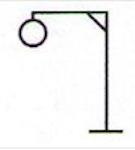
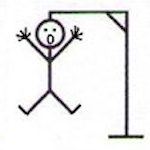
Made changes to hangman game

diff --git a/Coding_House_Prework/hangman/main.js b/Coding_House_Prework/hangman/main.js
@@ -1,16 +1,16 @@
 $(document).ready(function () {
     "use strict";
-    var availableLetters, words, guessInput, guess, guessButton, lettersGuessed, lettersMatched, output, man, letters, lives, currentWord, numLettersMatched, messages;
+    var letterChoices, presidentsArray, guessInput, guess, guessButton, lettersGuessed, lettersMatched, output, man, letters, lives, currentWord, numLettersMatched, messages;
 
     function setup() {
         /* start config options */
-        availableLetters = "abcdefghijklmnopqrstuvwxyz";
-        lives = 5;
-        words = ["lincoln", "kennedy", "washington", "roosevelt", "jefferson", "clinton", "nixon", "wilson", "johnson", "adams"];
+        letterChoices = "abcdefghijklmnopqrstuvwxyz";
+        lives = 6;
+        presidentsArray = ["lincoln", "kennedy", "washington", "roosevelt", "jefferson", "clinton", "nixon", "wilson", "johnson", "adams"];
         messages = {
             win: 'You win!',
             lose: 'Game over!',
-            guessed: ' already guessed, please try again...',
+            already_guessed: ' already guessed, please try again...',
             validLetter: 'Please enter a letter from A-Z'
         };
 
@@ -31,7 +31,7 @@ $(document).ready(function () {
         numLettersMatched = 0;
 
         /* choose a word */
-        currentWord = words[Math.floor(Math.random() * words.length)];
+        currentWord = presidentsArray[Math.floor(Math.random() * presidentsArray.length)];
 
         /* make #man and #output blank, create vars for later access */
         output = document.getElementById("output");
@@ -51,31 +51,117 @@ $(document).ready(function () {
 
         /* make sure guess button is enabled */
         guessButton = document.getElementById("guess");
-        guessInput.style.display = 'inline';
-        guessButton.style.display = 'inline';
+        // guessInput.style.display = 'inline';
+        // guessButton.style.display = 'inline';
 
         /* set up display of letters in current word */
         letters = document.getElementById("letters");
         letters.innerHTML = '<li class="current-word">Current word:</li>';
-
-        var letter, i;
+        var i = letter;
+        var letter;
         for (i = 0; i < currentWord.length; i++) {
             letter = '<li class="letter letter' + currentWord.charAt(i).toUpperCase() + '">' + currentWord.charAt(i).toUpperCase() + '</li>';
             letters.insertAdjacentHTML('beforeend', letter);
         }
     }
 
+
+
     function gameOver(win) {
         if (win) {
             output.innerHTML = messages.win;
             output.classList.add('win');
+            // audio.play("winning.mp3");
         } else {
             output.innerHTML = messages.lose;
             output.classList.add('error');
         }
 
-        guessInput.style.display = guessButton.style.display = 'none';
-        guessInput.value = '';
+        // guessInput.style.display = guessButton.style.display = 'none';
+        // guessInput.value = '';
+    }
+
+    function changeImage6() {
+
+        if (lives === 6) {
+        var elem6 = document.createElement("img");
+        elem6.setAttribute("src", "images/hangman_6.jpg")
+        document.getElementById("image-holder").appendChild(elem6);
+
+            console.log("yes6")
+        }
+    }
+
+    function changeImage5(){
+        if (lives === 5) {
+            // var elem5 = document.getElementById("img4")
+            // img.src = "hangman_2.jpg"
+        var elem5 = document.createElement("img");
+        elem5.setAttribute("src", "images/hangman_6.jpg")
+        document.getElementById("image-holder").appendChild(elem5);
+
+            console.log("yes5")
+        }
+    }
+
+     function changeImage4(){
+        if (lives === 4) {
+            // var elem3 = document.getElementById("img4")
+            // img.src = "hangman_2.jpg"
+        var elem4 = document.createElement("img");
+        elem4.setAttribute("src", "images/hangman_5.jpg")
+        document.getElementById("image-holder").appendChild(elem4);
+
+            console.log("yes4")
+        }
+    }
+
+    function changeImage3(){
+        if (lives === 3) {
+            // var elem3 = document.getElementById("img4")
+            // img.src = "hangman_2.jpg"
+        var elem3 = document.createElement("img");
+        elem3.setAttribute("src", "images/hangman_4.jpg")
+        document.getElementById("image-holder").appendChild(elem3);
+
+            console.log("yes3")
+        }
+    }
+
+    function changeImage2(){
+        if (lives === 2) {
+            // var elem3 = document.getElementById("img2")
+            // img.src = "hangman_2.jpg"
+        var elem2 = document.createElement("img");
+        elem2.setAttribute("src", "images/hangman_3.jpg")
+        document.getElementById("image-holder").appendChild(elem2);
+
+            console.log("yes2")
+        }
+    }
+
+    function changeImage1(){
+        if (lives === 1) {
+            // var elem3 = document.getElementById("img1")
+            // img.src = "hangman_2.jpg"
+        var elem1 = document.createElement("img");
+        elem1.setAttribute("src", "images/hangman_2.jpg")
+        document.getElementById("image-holder").appendChild(elem1);
+
+            console.log("yes1")
+        }
+    }
+
+     function changeImage0(){
+        if (lives === 0) {
+            // var elem3 = document.getElementById("img1")
+            // img.src = "hangman_2.jpg"
+        var elem0 = document.createElement("img");
+        elem0.setAttribute("src", "images/hangman_1.jpg")
+        document.getElementById("image-holder").appendChild(elem0);
+
+            console.log("yes0")
+        }
     }
 
     /* Start game - should ideally check for existing functions attached to window.onload */
@@ -90,7 +176,7 @@ $(document).ready(function () {
     };
 
     /* main guess function when user clicks #guess */
-    document.getElementById('hangman').onsubmit = function (e) {
+    document.getElementById('hangman').onsubmit = function(e) {
         if (e.preventDefault) e.preventDefault();
         output.innerHTML = '';
         output.classList.remove('error', 'warning');
@@ -99,12 +185,14 @@ $(document).ready(function () {
         /* does guess have a value? if yes continue, if no, error */
         if (guess) {
             /* is guess a valid letter? if so carry on, else error */
-            if (availableLetters.indexOf(guess) > -1) {
+            if (letterChoices.indexOf(guess) > -1) {
                 /* has it been guessed (missed or matched) already? if so, abandon & add notice */
                 if ((lettersMatched && lettersMatched.indexOf(guess) > -1) || (lettersGuessed && lettersGuessed.indexOf(guess) > -1)) {
-                    output.innerHTML = '"' + guess.toUpperCase() + '"' + messages.guessed;
+                    output.innerHTML = '"' + guess.toUpperCase() + '"' + messages.already_guessed;
                     output.classList.add("warning");
+                //
                 }
+
                 /* does guess exist in current word? if so, add to letters already matched, if final letter added, game over with win message */
                 else if (currentWord.indexOf(guess) > -1) {
                     var lettersToShow;
@@ -131,11 +219,19 @@ $(document).ready(function () {
                     lettersGuessed += guess;
                     lives--;
                     man.innerHTML = 'You have ' + lives + ' lives remaining';
-                    if (lives === 4) changeImage();
+                    if (lives === 6) changeImage6();
+                    if (lives === 5) changeImage5();
+                    if (lives === 4) changeImage4();
+                    if (lives === 3) changeImage3();
+                    if (lives === 2) changeImage2();
+                    if (lives === 1) changeImage1();
+                    if (output.innerHTML = messages.lose) changeImage0();
+                    // if (lives === 0) changeImage0();
                     if (lives === 0) gameOver();
     // if (lives = 4){
     //     $(#image-holder).attr('src', "hangman_1.png")
     // }
+
                 }
             }
             /* not a valid letter, error */
@@ -144,6 +240,14 @@ $(document).ready(function () {
                 output.innerHTML = messages.validLetter;
             }
         }
+
+        // else {
+
+        //             if (lives === 4) {
+        //                 $("#image-holder").attr('src',"images/hangman_1.png")
+        //                 console.log("yes");
+        //             }
+        //         }
         /* no letter entered, error */
         else {
             output.classList.add('error');

diff --git a/Coding_House_Prework/hangman/style.css b/Coding_House_Prework/hangman/style.css
@@ -44,7 +44,7 @@ body {
     width: 250px;
     height: 75px;
     background-color: #0BEAFF;
-    border: 2px #ffffff;
+    border: 4px solid #100DFE;
     border-radius: 20px;
     margin: 40px;
 
@@ -103,9 +103,9 @@ h1 {
   text-align: center;
   color: #ffffff;
   font-family: 'Allerta Stencil', sans-serif;
-  font-size: 22px;
+  font-size: 40px;
   float: center;
-  padding: 10px;
+  margin: 5px;
 }
 
 h2 {
@@ -115,8 +115,11 @@ h2 {
   font-family: 'Allerta Stencil', sans-serif;
   font-size: 22px;
   float: center;
-  padding: 10px;
+  margin: 5px;
+
 }
+
+
 .current-word {
     list-style: none;
     color: #ffffff;

diff --git a/Coding_House_Prework/hangman/index.html b/Coding_House_Prework/hangman/index.html
@@ -9,7 +9,7 @@
 <body>
 <h1>HANGMAN</h1>
 
-<h1>Type a letter into the box below and press the button "guess"</h1>
+<h2>Type a letter into the box below and press the button "guess"</h2>
 <div class="container">
     <h2>The Category is U.S. Presidents</h2>
   </div>
